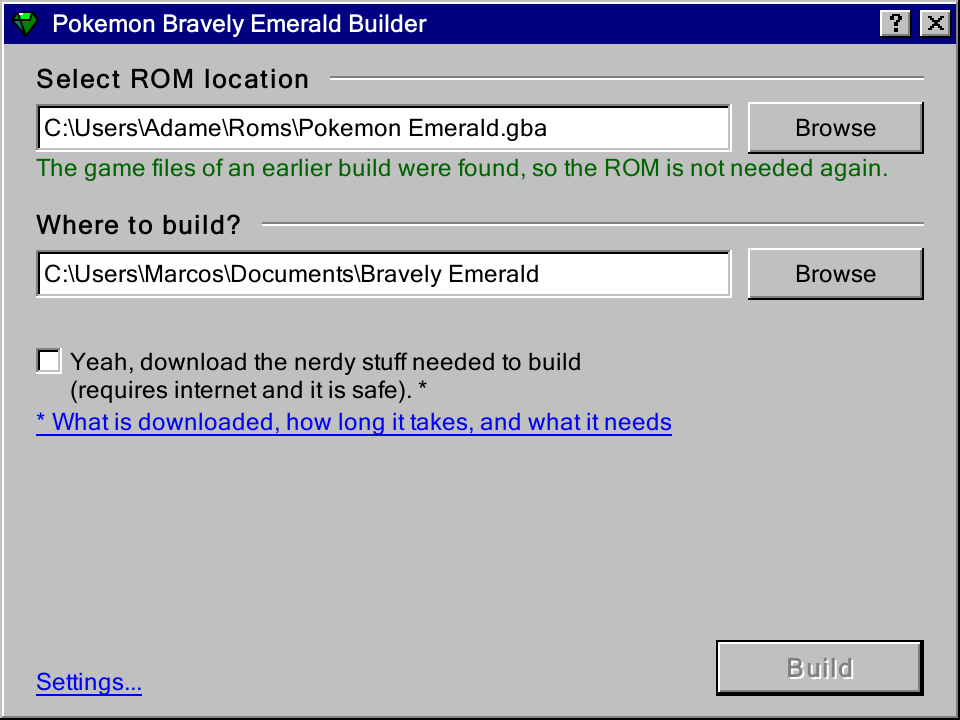
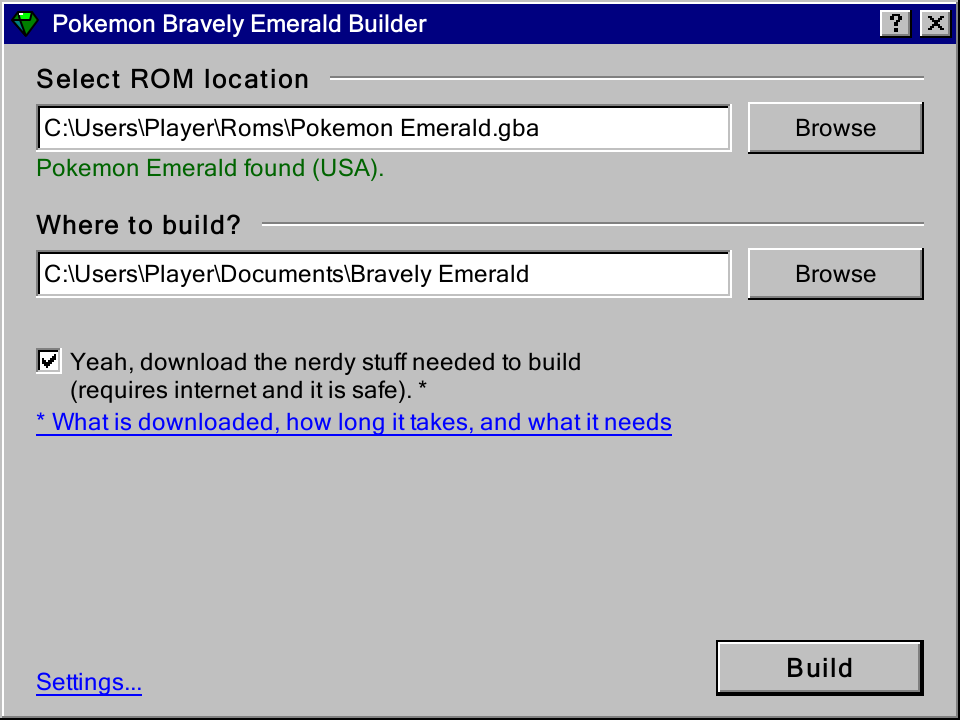
Builder screenshots re-rendered with neutral paths (C:\Users\Player); unused 1080p desktop shot removed; screenshot helper and test fixtures use neutral names

diff --git a/tools/builder/tests/shots.py b/tools/builder/tests/shots.py
@@ -20,13 +20,25 @@ from PySide6.QtCore import QRect, Qt                # noqa: E402
 from PySide6.QtWidgets import QApplication          # noqa: E402
 from core.tasks import Step                          # noqa: E402
 from tests.test_core import make_rom                 # noqa: E402
+from core import report                          # noqa: E402
 from ui import win95                                 # noqa: E402
 from ui.dialogs import HelpDialog, SettingsDialog    # noqa: E402
 from ui.main_window import MainWindow                # noqa: E402
 
 CODE = ("import time\nfor i in range(1,101,5):\n print('[%3d%%] Building C object x%d.o' % (i,i),flush=True); time.sleep(0.02)\n"
         "SLEEP\nprint('png.h: No such file or directory' if FAIL else 'done',flush=True)\nimport sys\nsys.exit(1 if FAIL else 0)\n")
+NEUTRAL_ROM = r"C:\Users\Player\Roms\Pokemon Emerald.gba"
+NEUTRAL_OUT = r"C:\Users\Player\Documents\Bravely Emerald"
+NEUTRAL_WORK = r"C:\Users\Player\AppData\Local\BravelyEmerald\source"
 STAGES = ["prereq", "install", "files", "tools", "assets", "deps", "compile", "link", "package"]
+
+
+def neutral_header(builder, manifest=None, include_pacman=True):
+    """The real log header lists the user's paths, the CPU and a slow package query; the screenshots get a short neutral one."""
+    return ["Bravely Emerald Builder", "System: Windows 10, x64", "Source folder: " + NEUTRAL_WORK]
+
+
+report.header = neutral_header
 
 
 def pump(app, secs):
@@ -59,6 +71,8 @@ def main():
     pump(app, 0.5)
     print("source+checks ready after %.1fs, repo=%s, font=%s, scale=%s" % (time.time() - t0, w.builder.repo, win95.load_font(),
                                                                          os.environ.get("QT_SCALE_FACTOR", "1")))
+    w.dir_edit.setText(NEUTRAL_OUT)                           # the screenshots must not show the real user name
+    w.source.work = NEUTRAL_WORK
     w.rom_edit.setText("")
     w.consent.setChecked(False)
     w.check_rom()
@@ -68,6 +82,7 @@ def main():
     make_rom(rom)
     w.rom_edit.setText(rom)
     w.check_rom()
+    w.rom_edit.setText(NEUTRAL_ROM)                           # display only: the check above used the synthetic file
     w.consent.setChecked(True)
     pump(app, 0.3)
     w.grab().save(os.path.join(out, "02_ready_to_build.png"))
@@ -88,6 +103,7 @@ def main():
     w.grab().save(os.path.join(out, "02b_bad_rom.png"))
     w.rom_edit.setText(rom)
     w.check_rom()
+    w.rom_edit.setText(NEUTRAL_ROM)
 
     box = w.make_footnote_box()
     box.show()
@@ -116,11 +132,12 @@ def main():
         pump(app, 0.4)
         w.last_box.grab().save(os.path.join(out, "05b_failed_dialog.png"))
         w.last_box.close()
-    w.show_ready({"ok": True, "target": "windows", "folder": r"C:\Users\You\Documents\Bravely Emerald", "launch": True})
+    w.show_ready({"ok": True, "target": "windows", "folder": NEUTRAL_OUT, "launch": True})
     pump(app, 0.4)
     w.grab().save(os.path.join(out, "06_done.png"))
 
     dlg = SettingsDialog(w)
+    dlg.work_edit.setText(NEUTRAL_WORK)
     dlg.show()
     pump(app, 0.5)
     dlg.grab().save(os.path.join(out, "07_settings.png"))

diff --git a/tools/builder/tests/test_paths.py b/tools/builder/tests/test_paths.py
@@ -15,7 +15,7 @@ from core import source                           # noqa: E402
 
 class PathProblemTests(unittest.TestCase):
     def test_accepted(self):
-        for p in ("C:\\Users\\Adame\\AppData\\Local\\BravelyEmerald\\source", "F:\\fresh-test\\home\\source", "C:\\BravelyEmerald\\source",
+        for p in ("C:\\Users\\Player\\AppData\\Local\\BravelyEmerald\\source", "F:\\fresh-test\\home\\source", "C:\\BravelyEmerald\\source",
                   "/home/deck/emerald-deck"):
             self.assertIsNone(source_path_problem(p), p)
 

diff --git a/tools/builder/tests/test_fresh_smoke.py b/tools/builder/tests/test_fresh_smoke.py
@@ -204,7 +204,7 @@ WORK_NAMES = {
     "plain": "work",
     "with space": "my work folder",
     "accent": "caf\u00e9-\u00f1",
-    "windows user path": os.path.join("Users", "Adame", "AppData", "Local", "BravelyEmerald", "source"),
+    "windows user path": os.path.join("Users", "Player", "AppData", "Local", "BravelyEmerald", "source"),
 }
 
 

diff --git a/docs/BUILDER.md b/docs/BUILDER.md
@@ -270,7 +270,7 @@ One command runs the smoke tests (no network, no installs, about two minutes):
 
 It runs the real core code against a stub `pacman` (first sync that asks for a restart, mirror timeouts and retries, lock file,
 keyring error, resume), runs the real `build.sh`, `build_deps.sh` and `package.sh` with stand-in tools (`BRAVELY_STUBS`) from an empty
-folder, a folder with spaces, one with an accent and a `Users\Adame\AppData\Local\BravelyEmerald\source` style path, and runs `plan`
+folder, a folder with spaces, one with an accent and a `Users\Player\AppData\Local\BravelyEmerald\source` style path, and runs `plan`
 and `build --dry-run` against this PC and against an empty MSYS2 folder, on the source and on the packaged exe when
 `tools/builder/dist-builder/` holds one (or `BRAVELY_PACKAGED_EXE` names it). A failed check prints which step and which line.
 It does not prove that a real MSYS2 install, the real mirrors or the real compile work on a clean PC: only a real run on one does.
